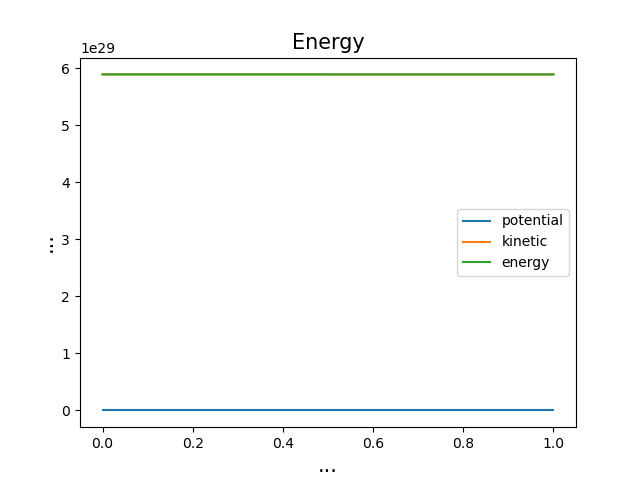
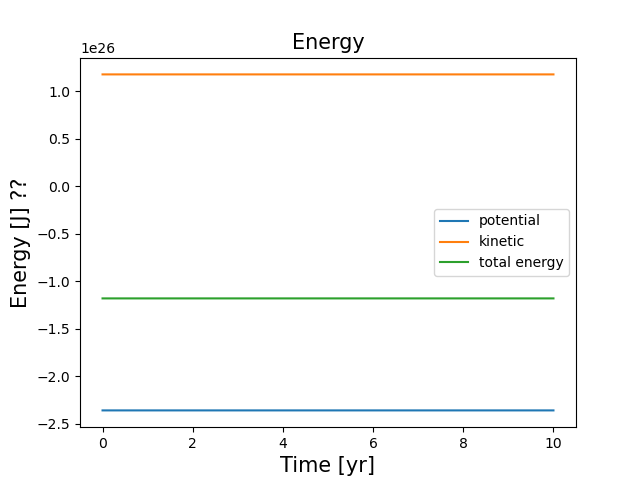
ololo

diff --git a/Project3/Solver.py b/Project3/Solver.py
@@ -36,10 +36,10 @@ class Solver:
         self.ts = np.linspace(0, T, n+1)
 
         #position matrix
-        self.r = np.zeros([2, self.ts.size, self.Np])  #[x or y, time step, planet]
+        self.r = np.zeros([2, self.ts.size-1, self.Np])  #[x or y, time step, planet]
 
         #velocity matrix
-        self.v = np.zeros([2, self.ts.size, self.Np])  #[vs or vy, time step, planet]
+        self.v = np.zeros([2, self.ts.size-1, self.Np])  #[vs or vy, time step, planet]
 
     def solve(self, method):
         """
@@ -48,25 +48,11 @@ class Solver:
         method: string object with name of desired method.
         """
         #initalize r and v matrices
-
-        #print(self.r0)
-        #print(self.r[:,0,:])
-        #sys.exit(100)
-
-        """
-        for i in range(self.Np):
-            for k in range(2):
-                self.r[k,0,i] = self.r0[k,i]
-                self.v[k,0,i] = self.v0[k,i]
-        """
-
         self.r[:,0,:] = self.r0
         self.v[:,0,:] = self.v0
 
         #size of time step (use as argument instead of T or n?)
         dt = self.ts[1] - self.ts[0]
-        #print(dt)
-        #dt = 1e-3
 
         #time loop
         for k in range(self.n-1):
@@ -74,78 +60,14 @@ class Solver:
             if method == "Euler":
                 self.v[:,k+1,:] = self.v[:,k,:] + self.f(self.r[:,k,:], self.ts[k])*dt
                 self.r[:,k+1,:] = self.r[:,k,:] + self.v[:,k,:]*dt
-                print(self.f(self.r[:,k,:], self.ts[k]))
-                print("---------------")
-                print(self.r)
             if method == "Verlet":
                 self.r[:,k+1,:] = self.r[:,k,:] + self.v[:,k,:]*dt + 0.5*self.f(self.r[:,k,:], self.ts[k])*dt**2
                 self.v[:,k+1,:] = self.v[:,k,:] + 0.5*(self.f(self.r[:,k,:], self.ts[k]) + self.f(self.r[:,k+1,:], self.ts[k+1]))*dt
-
-                #vel[t+1, :] = vel[t, :] + 0.5*(acc[t, :] + acc[t+1, :])*dt
-        return self.r, self.v
+        return self.r, self.v, self.ts
 
 
 
 
 
 if __name__ == '__main__':
-    def a(r, t):
-        """
-        right hand side of dv/dt = -GM/r^2
-        Equation derived from Newtonian mechanics
-        F = ma
-        F = -GMm/r^2
-        """
-        GM      = 4*np.pi**2            # G*M_sun, Astro units, [AU^3/yr^2]
-        #M_sun   = 1.989e30        # [kg]
-        unit_r = r/np.linalg.norm(r, axis=0)  #unit vector pointing from sun to Earth
-        #print(unit_r)
-        acceleration = -GM/np.linalg.norm(r, axis=0)**2*unit_r
-        return acceleration
-
-    #init_pos = [1 , 0]     #[AU]
-    #init_vel = [0, 2*np.pi]  #[AU/yr]
-
-    T = 10       #[yr]
-    n = int(1e3)  #nr of time steps
-
-    #init_pos = np.reshape(init_pos, [2,1])
-    #init_vel = np.reshape(init_vel, [2,1])
-
-    #og lese fra inn fil
-    init_pos = np.array([[1,0], [2,0]])
-    init_vel = np.array([[0,2*np.pi], [0,2.5]])
-
-
-    #init_pos = np.array([[1,0]])
-    #init_vel = np.array([[0,2*np.pi]])
-
-    init_pos = np.transpose(init_pos)
-    init_vel = np.transpose(init_vel)
-
-    print(init_pos)
-
-    #print(init_pos)
-    #sys.exit(100)
-
-    #using the class
-    #solver1 = Solver(a, init_pos, init_vel, 2, T, n)
-    solver2 = Solver(a, init_pos, init_vel, 2, T, n)
-    #pos_E, vel_E = solver1.solve(method = "Euler")
-    pos_V, vel_V = solver2.solve(method = "Verlet")
-
-
-    #print(pos_E)
-
-    #plt.plot(pos_E[0,:-1,0], pos_E[1,:-1,0], color="blue")
-    #plt.plot(pos_E[0,0,0], pos_E[1,0,0], "x", color="blue",)
-    plt.plot(pos_V[0,:-1,0], pos_V[1,:-1,0], color="green")
-    plt.plot(pos_V[0,0,0], pos_V[1,0,0], "x", color="green",)
-
-
-    plt.plot(pos_V[0,0,1], pos_V[1,0,1], "x", color="red",)
-    plt.plot(pos_V[0,:-1,1], pos_V[1,:-1,1], color="red")
-
-    #plt.axis([-2,2, -2,2])
-    plt.axis('equal')
-    plt.show()
+    print("Import into main.py.")

diff --git a/Project3/main.py b/Project3/main.py
@@ -88,15 +88,13 @@ if __name__ == '__main__':
 
 
         T  = 10  #[yr]
-        dt = 1e-3
         n  = int(10e3)
-        t  = np.linspace(0, T, n+1)
-        Np = 1
+        Np = 1  #nr of planets
 
         M_earth = 5.972e24  #[kg]
 
         init_pos = np.array([[1,0]])            # [AU]
-        init_vel = np.array([[0,2*np.pi]])      # [?]
+        init_vel = np.array([[0,2*np.pi]])      # [AU/yr]
 
         init_pos = np.transpose(init_pos)
         init_vel = np.transpose(init_vel)
@@ -104,12 +102,12 @@ if __name__ == '__main__':
         #using the class
         solver1 = Solver(a, init_pos, init_vel, Np, T, n)
         solver2 = Solver(a, init_pos, init_vel, Np, T, n)
-        pos_E, vel_E = solver1.solve(method = "Euler")
-        pos_V, vel_V = solver2.solve(method = "Verlet")
+        pos_E, vel_E, t_E = solver1.solve(method = "Euler")
+        pos_V, vel_V, t_V = solver2.solve(method = "Verlet")
 
-        plt.plot(pos_E[0,:-1,0], pos_E[1,:-1,0], label="Forward Euler")
+        plt.plot(pos_E[0,:,0], pos_E[1,:,0], label="Forward Euler")
         plt.plot(pos_E[0,0,0], pos_E[1,0,0], "x", label="Init. pos.")
-        plt.plot(pos_V[0,:-1,0], pos_V[1,:-1,0], label="Verlet")
+        plt.plot(pos_V[0,:,0], pos_V[1,:,0], label="Verlet")
         plt.plot(pos_V[0,0,0], pos_V[1,0,0], "x", label="Init. pos.")
 
         plt.title("Earth-Sun system. Over %g years \n Object oriented" %T, fontsize=15)
@@ -122,5 +120,5 @@ if __name__ == '__main__':
 
         # Funker ikke helt...
 
-        func.Energy(M_earth, GM, vel_V, pos_V)
+        func.Energy(M_earth, GM, vel_V, pos_V, t_V)
         plt.savefig("Results/3c_Earth_Sun_system_energy_object.png"); plt.show()

diff --git a/Project3/functions.py b/Project3/functions.py
@@ -64,17 +64,21 @@ def Verlet(G, ts, pos, vel, acc, dt):
     # Trenger kanskje ikke return..?
     return pos, vel
 
-def Energy(M_E, GM, vel, pos):
-    K = 0.5*M_E*np.linalg.norm(vel, axis=1)**2
-    U = -(GM*M_E)/np.linalg.norm(pos, axis=1)
+def Energy(M_E, GM, vel, pos, time):
+    K = 0.5*M_E*np.linalg.norm(vel, axis=0)**2
+    U = -(GM*M_E)/np.linalg.norm(pos, axis=0)
+
+    K = np.ravel(K)
+    U = np.ravel(U)
+    time = time[:-1]
 
     plt.figure()
-    plt.plot(U, label="potential")
-    plt.plot(K, label="kinetic")
-    plt.plot(U+K, label="energy")
+    plt.plot(time, U, label="potential")
+    plt.plot(time, K, label="kinetic")
+    plt.plot(time, U+K, label="total energy")
 
     plt.title("Energy", fontsize=15)
-    plt.xlabel("...", fontsize=15); plt.ylabel("...", fontsize=15)
+    plt.xlabel("Time [yr]", fontsize=15); plt.ylabel("Energy [J] ??", fontsize=15)
     plt.legend()
 
 def Plot_Sun_Earth_system(pos, label=''):
